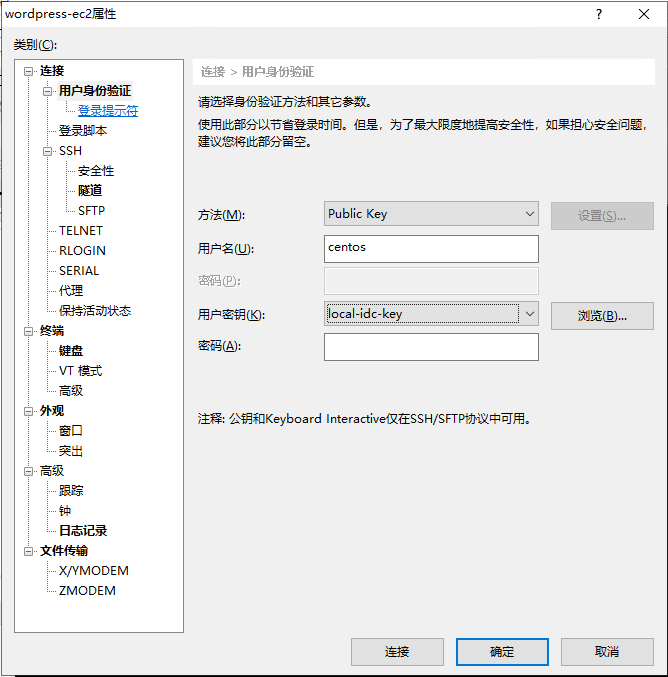
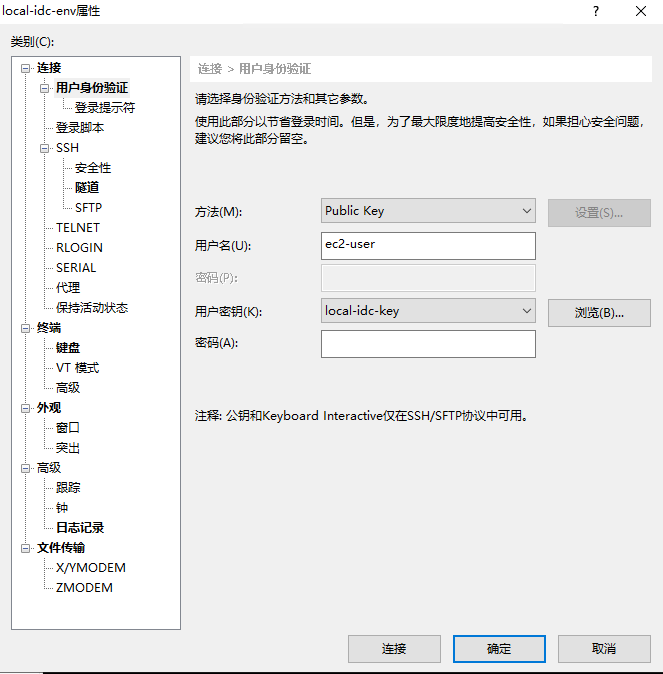
updates

diff --git a/content/6.SetupStorageGW/backupToStorageGW.md b/content/6.SetupStorageGW/backupToStorageGW.md
@@ -27,11 +27,10 @@ weight: 62
 ![](/images/SetupStorageGW/createStorageGW-EC2.png)
 
 并点击【启动实例】按钮。在弹出的界面上，按照设置说明配置VPC，主机类型，添加新EBS卷，安全组等。
-注意：
-* 如要求，EC2配置要求大于或等于xlarge，即4核/16G内存。建议使用m5.xlarge。
+注意：EC2配置要求大于或等于xlarge，即4核/16G内存。建议使用m5.xlarge。
 ![](/images/SetupStorageGW/createStorageGW-EC2Type.png)
 
-* 在"步骤 3: 配置实例详细信息"中，"网络"一栏选择名称为"LocalVPC"的子网，"自动分配公有IP"下拉列表里选择"启用"。点击【下一步:添加存储】按钮。
+* 在"步骤 3: 配置实例详细信息"中，"网络"一栏选择名称为"LocalVPC"的子网，其他保留缺省值。点击【下一步:添加存储】按钮。
 ![](/images/SetupStorageGW/createStorageGW-VPC.png)
 
 * 需要额外添加EBS卷，其容量设置不应小于150G；（存储网关至少需要添加一个磁盘以便进行缓存，客户端对文件的访问会首先在缓存中去获取文件信息，这样将大大减少通过网络去S3直接获取文件的延迟，文件存储网关缓存最大值为16TB）。点击【下一步:添加标签】按钮。
@@ -47,8 +46,10 @@ weight: 62
 * 点击【启动】按钮。在弹出的窗口中，在"选择一个密钥对"下拉列表里，选择"local-idc-key"。并选中"我确认我有权访问所选的私有密钥文件(local-idc-key.pem)，并且如果没有此文件，我将无法登录我的实例。"复选框。点击【启动实例】按钮。
 ![](/images/SetupStorageGW/createStorageGW-LaunchEC2.png)
 
-3.获得Gateway私有IP。进入EC2的控制台：https://console.amazonaws.cn/ec2/v2/home?region=cn-north-1#Instances:search=Filegateway;sort=launchTime
-等待EC2创建完成，进入EC2详情页，记录下该机器的公网IP （下文称为 Gateway公网IP）以及私有IP（下文称为 Gateway私网IP）
+3.获得Gateway私有IP。
+进入EC2的控制台：https://console.amazonaws.cn/ec2/v2/home?region=cn-north-1#Instances:search=Filegateway;sort=launchTime
+
+等待EC2创建完成，进入EC2详情页，记录下该机器的私有IP（下文称为 Gateway私网IP）
 ![](/images/SetupStorageGW/createStorageGW-IP.png)
 
 4.回到"创建网关"界面，点击【下一步】，"终端节点类型"选择"VPC"，并点击【创建VPC终端节点】按钮。
@@ -68,6 +69,7 @@ weight: 62
 在"Description"处输入：storagegateway-VPC-Endpoint
 在"VPC"下拉列表里选择：LocalVPC
 在"Inbound rules"中点击【Add rule】，并别添加如下规则：
+
 - TCP 443
 
 - TCP 1026
@@ -107,7 +109,7 @@ weight: 62
 ![](/images/SetupStorageGW/createStorageGW-loggroup.png)
 ![](/images/SetupStorageGW/createStorageGW-finish.png)
 
-11.创建S3 VPC终端节点。进入创建VPC终端节点控制台：https://console.amazonaws.cn/vpc/home?region=cn-north-1#CreateVpcEndpoint:vpcEndpointId=vpce-0fa8c96af2c2c844d
+11.创建S3 VPC终端节点。进入创建VPC终端节点控制台：https://console.amazonaws.cn/vpc/home?region=cn-north-1#CreateVpcEndpoint
 
 * 在"服务名称"处，找到并选择"com.amazonaws.cn-north-1.s3"
 
@@ -148,5 +150,5 @@ echo "hello, three" > hello3.txt
 ![](/images/SetupStorageGW/verifyBackup.png)
 
 {{% notice note %}}
-注意： 您在/nfs文件夹下的任何操作会直接映射到File Gateway缓存上，为了提升效率，缓存会定期和S3进行同步工作。所以，当您添加了一个文件在/nfs中，可能需要过几秒在S3存储桶中看到它。
+注意： 您在/mnt文件夹下的任何操作会直接映射到File Gateway缓存上，为了提升效率，缓存会定期和S3进行同步工作。所以，当您添加了一个文件在/mnt中，可能需要过几秒在S3存储桶中看到它。
 {{% /notice  %}}

diff --git a/content/3.LandingZoneOfDRSite/configNetwork.md b/content/3.LandingZoneOfDRSite/configNetwork.md
@@ -36,14 +36,17 @@ weight: 32
 ![](/images/LandingZoneOfDRSite/CreateVPCPeering1.png)
 ![](/images/LandingZoneOfDRSite/CreateVPCPeering2.png)
 
-3.到北京region的对等连接界面：https://console.amazonaws.cn/vpc/home?region=cn-north-1#PeeringConnections:sort=vpcPeeringConnectionId，
+3.到北京region的对等连接界面：https://console.amazonaws.cn/vpc/home?region=cn-north-1#PeeringConnections:sort=vpcPeeringConnectionId
+
 选中状态为"正在处理接受"的VPC peering，然后在"操作"下拉菜单里，选择"接受请求"选项。
 ![](/images/LandingZoneOfDRSite/CreateVPCPeering3.png)
 在弹出的确认界面中，选择【是，接受】按钮。
-回到宁夏region的对等连接界面：https://cn-northwest-1.console.amazonaws.cn/vpc/home?region=cn-northwest-1#PeeringConnections:sort=vpcPeeringConnectionId，
+回到宁夏region的对等连接界面：https://cn-northwest-1.console.amazonaws.cn/vpc/home?region=cn-northwest-1#PeeringConnections:sort=vpcPeeringConnectionId
+
 确认名为"dr-connection"的对等连接的状态为"活动"。
 
 4.到北京region的EC2界面：https://console.amazonaws.cn/ec2/v2/home?region=cn-north-1#Instances:tag:Name=Basion,APP;sort=launchTime
+
 选择名称为"WordPress APP"的EC2，找到并点击其所在的子网ID的链接，进入VCP的子网界面。
 ![](/images/LandingZoneOfDRSite/wpserversubnet.png)
 
@@ -64,23 +67,18 @@ weight: 32
 ![](/images/LandingZoneOfDRSite/addrouteentry.png)
   
 8.到宁夏region的VPC界面上：https://cn-northwest-1.console.amazonaws.cn/vpc/home?region=cn-northwest-1#vpcs:sort=VpcId
+
 找到并拷贝名称为BCDRVPC的VPC的ID。
+![](/images/LandingZoneOfDRSite/getBCDRVPCID.png)
 
-9.点击左侧"路由表"菜单，并在右侧的过滤栏里，输入上一步的VPC ID。找出属于该VPC的路由表ID。
+9.点击左侧"路由表"菜单，并在右侧的过滤栏里，输入上一步的VPC ID。找出属于该VPC的路由表ID。并选中"显式关联对象"一栏为"2个子网"的那个路由表。
+![](/images/LandingZoneOfDRSite/selectDRSiteRouteTable.png)
 
-10.选择第一个路由表，并点击"路由" tab 页，然后点击【编辑路由】按钮，进入路由编辑界面。在"编辑路由"界面上，点击【添加路由】按钮：
+10.选中关联了子网的路由表以后，点击"路由" tab 页，然后点击【编辑路由】按钮，进入路由编辑界面。在"编辑路由"界面上，点击【添加路由】按钮：
 
   * 在第一列"目标"输入：10.0.0.0/24
   
   * 在第二列"目标"下拉列表里选择"Peering Connection"，并选择我们刚才创建对等连接。
   
   * 最后，点击【保存路由】
-
-对第二个路由表进行同样的操作，添加路由条目，把10.0.0.0/24加入该路由表里。
-
-
-
-
-
-
   

diff --git a/content/2.DeploySourceEnv/_index.md b/content/2.DeploySourceEnv/_index.md
@@ -12,7 +12,12 @@ weight: 20
 
 先进行如下的准备工作：
 
-1.在北京region创建key pair。登录北京region的keypair控制台：https://console.amazonaws.cn/ec2/v2/home?region=cn-north-1#KeyPairs:
+1.登录AWS控制台：https://console.amazonaws.cn/console/home?region=cn-north-1
+
+把右侧滚动条拖到最底端，点击"English"链接，并选择"中文(简体)"选项。
+![](/images/CreateSourceEnv/enableChinese.png)
+
+2.在北京region创建key pair。登录北京region的keypair控制台：https://console.amazonaws.cn/ec2/v2/home?region=cn-north-1#KeyPairs:
 
 点击【Create key pair】
 ![](/images/CreateSourceEnv/createKeyPair1.png)
@@ -25,10 +30,12 @@ weight: 20
 key pair文件只有在第一次创建的时候才能下载，如果没有下载，则必须重新创建一个新的key paire文件。
 {{% /notice  %}}
 
-2.创建IAM用户。登录创建IAM用户的控制台：https://console.amazonaws.cn/iam/home?region=cn-north-1#/users$new?step=details
+3.创建IAM用户。登录创建IAM用户的控制台：https://console.amazonaws.cn/iam/home?region=cn-north-1#/users$new?step=details
 
 在"设置用户详细信息"页面上：
+
 * 在"用户名"处输入：demouser
+
 * 在"访问类型"处勾选"编程访问"
 ![](/images/CreateSourceEnv/createUser1.png)
 
@@ -47,7 +54,7 @@ key pair文件只有在第一次创建的时候才能下载，如果没有下载
 包含IAM用户的access key和secret key的csv文件只有在第一次创建用户的时候才能下载，如果没有下载，则必须重新创建一个新的IAM用户。
 {{% /notice  %}}
 
-3.创建CloudFormation IAM role。进入创建IAM role的控制台：https://console.amazonaws.cn/iam/home?region=cn-north-1#/roles$new?step=type
+4.创建CloudFormation IAM role。进入创建IAM role的控制台：https://console.amazonaws.cn/iam/home?region=cn-north-1#/roles$new?step=type
 
 选择"AWS产品"，在"或者选择一个服务以查看其使用案例"部分选择CloudFormation。点击【下一步:权限】按钮。
 ![](/images/CreateSourceEnv/createCFRole1.png)

diff --git a/content/4.SyncWithCloudEndure/deployAgent.md b/content/4.SyncWithCloudEndure/deployAgent.md
@@ -41,14 +41,16 @@ weight: 41
 ![](/images/SyncWithCloudEndure/installAgent1.png)
 
 6.在本地数据中心的应用服务器里安装agent。打开北京region的EC2控制台：https://console.amazonaws.cn/ec2/v2/home?region=cn-north-1#Instances:tag:Name=Basion,APP;sort=launchTime
-找到应用服务器的私有IP地址，然后remote desktop登录到堡垒机，把local-idc-key.pem文件拷贝到堡垒机的WorkShopTools目录下。
+
+找到应用服务器的私有IP地址，然后remote desktop登录到堡垒机，把local-idc-key.pem文件拷贝到堡垒机的WorkShopTools目录下(在本地电脑里选中local-idc-key.pem文件并ctrl+c，然后鼠标点中WorkShopTools目录并ctrl+v即可完成拷贝)。
 打开xshell，选择"local-idc-env"，点击"属性"菜单，在弹出界面上，把应用服务器的私有IP地址拷贝到"主机(H)"一栏。
 ![](/images/SyncWithCloudEndure/inputSourceIP.png)
 
 然后在右侧选择"用户身份验证"，再点击左侧的【浏览(B)...】按钮，并在弹出的窗口上，点击【导入(I)...】按钮，
 找到刚才拷贝进来的local-idc-key.pem文件。然后点击【取消按钮】，退出当前窗口。
 ![](/images/SyncWithCloudEndure/importKey.png)
-在"方法(M)"下拉列表里，选择"Public Key"，在"用户名(U)"处填入"centos"，在"用户密钥"下拉列表里，选择刚才导入的local-idc-key。
+
+在"方法(M)"下拉列表里，选择"Public Key"，在"用户名(U)"处保留原来的值"ec2-user"，在"用户密钥"下拉列表里，选择刚才导入的local-idc-key。
 ![](/images/SyncWithCloudEndure/loginEC2.png)
 
 然后点击【连接】按钮，在"SSH安全警告"弹出窗口里，点击【接受并保存】按钮，从而登录到Wordpress EC2。

diff --git a/content/8.ClearEnv/_index.md b/content/8.ClearEnv/_index.md
@@ -35,6 +35,8 @@ sudo umount /mnt
 
 * 进入EC2的控制台，找到Filegateway的EC2实例：https://console.amazonaws.cn/ec2/v2/home?region=cn-north-1#Instances:search=Filegateway;sort=launchTime
 
+* 删除Storage Gateway所使用的Endpoint以及相关的安全组。
+
 在【操作】下拉菜单里选择"实例状态"选项，并选择"终止"选项。并在弹出窗口中选择【是,请终止】按钮。
 ![](/images/CleanUp/deleteStorageGWEC2.png)
 
@@ -46,6 +48,8 @@ sudo umount /mnt
 3.在CloudEndure里，在Machines里，选中Wordpress APP，然后在Machime action里，选中"Remove 1 Machine From This Console"
 ![](/images/CleanUp/removeMachineFromCE.png)
 在PROJECT ACTION里，选择"Delete Current Project"选项，删除wp-dr项目。
+
+删除CloudEndure所使用的1500端口的安全组。
 
 4.进入宁夏region的EC2控制台：https://cn-northwest-1.console.amazonaws.cn/ec2/v2/home?region=cn-northwest-1#Instances:tag:Name=APP;sort=launchTime
 
@@ -69,4 +73,6 @@ sudo umount /mnt
 9.删除IAM用户：demouser。进入IAM user的控制台：https://console.amazonaws.cn/iam/home?region=cn-northwest-1#/users/demouser
 
 点击【删除用户】按钮，并点击【是,删除】按钮。
+
+10.删除IAM role：dms-vpc-role。
 

diff --git a/content/3.LandingZoneOfDRSite/_index.md b/content/3.LandingZoneOfDRSite/_index.md
@@ -12,3 +12,19 @@ weight: 30
 
 * 把本地数据中心的网络和容灾环境的网络打通。
 
+先进行如下的准备工作：
+
+1.创建DMS IAM role。进入创建IAM role的控制台：https://console.amazonaws.cn/iam/home?region=cn-northwest-1#/roles$new?step=type
+
+选择"AWS产品"，在"或者选择一个服务以查看其使用案例"部分选择DMS。点击【下一步:权限】按钮。
+![](/images/LandingZoneOfDRSite/createDMSRole1.png)
+
+在"Attach权限策略"页面上，选择名为"AmazonDMSVPCManagementRole"的策略。点击【下一步:标签】按钮。
+![](/images/LandingZoneOfDRSite/createDMSRole2.png)
+
+在"添加标签 (可选)"页面上，保留缺省值，点击【下一步:审核】按钮。
+
+在"创建角色"页面上，"角色名称"输入：dms-vpc-role，点击【创建角色】按钮。
+![](/images/LandingZoneOfDRSite/createDMSRole3.png)
+
+

diff --git a/content/7.Failover/RestoreAppWithCE.md b/content/7.Failover/RestoreAppWithCE.md
@@ -11,7 +11,7 @@ weight: 72
 1.配置蓝图(Blueprint)。到CloudEndure主界面，选择左边的Machines菜单选项，点击名为"WordPress APP"服务器，进入 Blueprint（蓝图）界面设置目标实例的配置信息：
 
 * "Machine Type"中选择目标实例的类型，可以选择各种实例类型，或者选择复制源端的实例类型；这里选择c5.large。
-* "Launch Type"中选择按需实例或者Spot实例；这里保留缺省的On Demand。
+* "Launch Type"中选择实例类型，这里保留缺省：On Demand。
 * "Subnet"选择名为BCDRVPC里的名为DMZ subnet的子网。
 * "Security Groups"选择名为WebServerSecurityGroup的安全组。
 * "Private IP"选择"Create new"。

diff --git a/content/7.Failover/restoreFromStorageGW.md b/content/7.Failover/restoreFromStorageGW.md
@@ -1,10 +1,10 @@
 ---
 title: "从Stroage Gateway上恢复数据"
 chapter: false
-weight: 63
+weight: 75
 ---
 
-## 从AWS Storage Gateway进行文件恢复
+## 对AWS Storage Gateway备份的文件进行恢复
 
 使用AWS Storage Gateway作为NAS存储，恢复文件的过程与备份类似，把文件网关挂载到目标服务器上即可。具体实验过程如下：
 
@@ -15,5 +15,5 @@ ls /mnt
 ```
 
 即可看到在/mnt目录下，您在本地数据中心环境里输入的3个文件了。
-![](/images/SetupStorageGW/restoreFromStorageGW.png)
+![](/images/Failover/restoreFromStorageGW.png)
 

diff --git a/content/6.SetupStorageGW/_index.md b/content/6.SetupStorageGW/_index.md
@@ -19,4 +19,4 @@ Stroage Gateway的整体方案如下图：
 
 * 准备工作
 * 在本地数据中心中使用AWS Storage Gateway作为NAS存储，进行文件备份
-* 本地数据中心使用AWS Storage Gateway作为NAS存储，进行文件恢复
+

diff --git a/content/7.Failover/_index.md b/content/7.Failover/_index.md
@@ -15,3 +15,5 @@ weight: 70
 * 中断AWS DMS的复制任务
 
 * 在AWS平台上，把应用服务器和数据库关联，并使其正常可用
+
+* 在AWS平台上，对AWS Storage Gateway备份的文件进行恢复 (可选)
